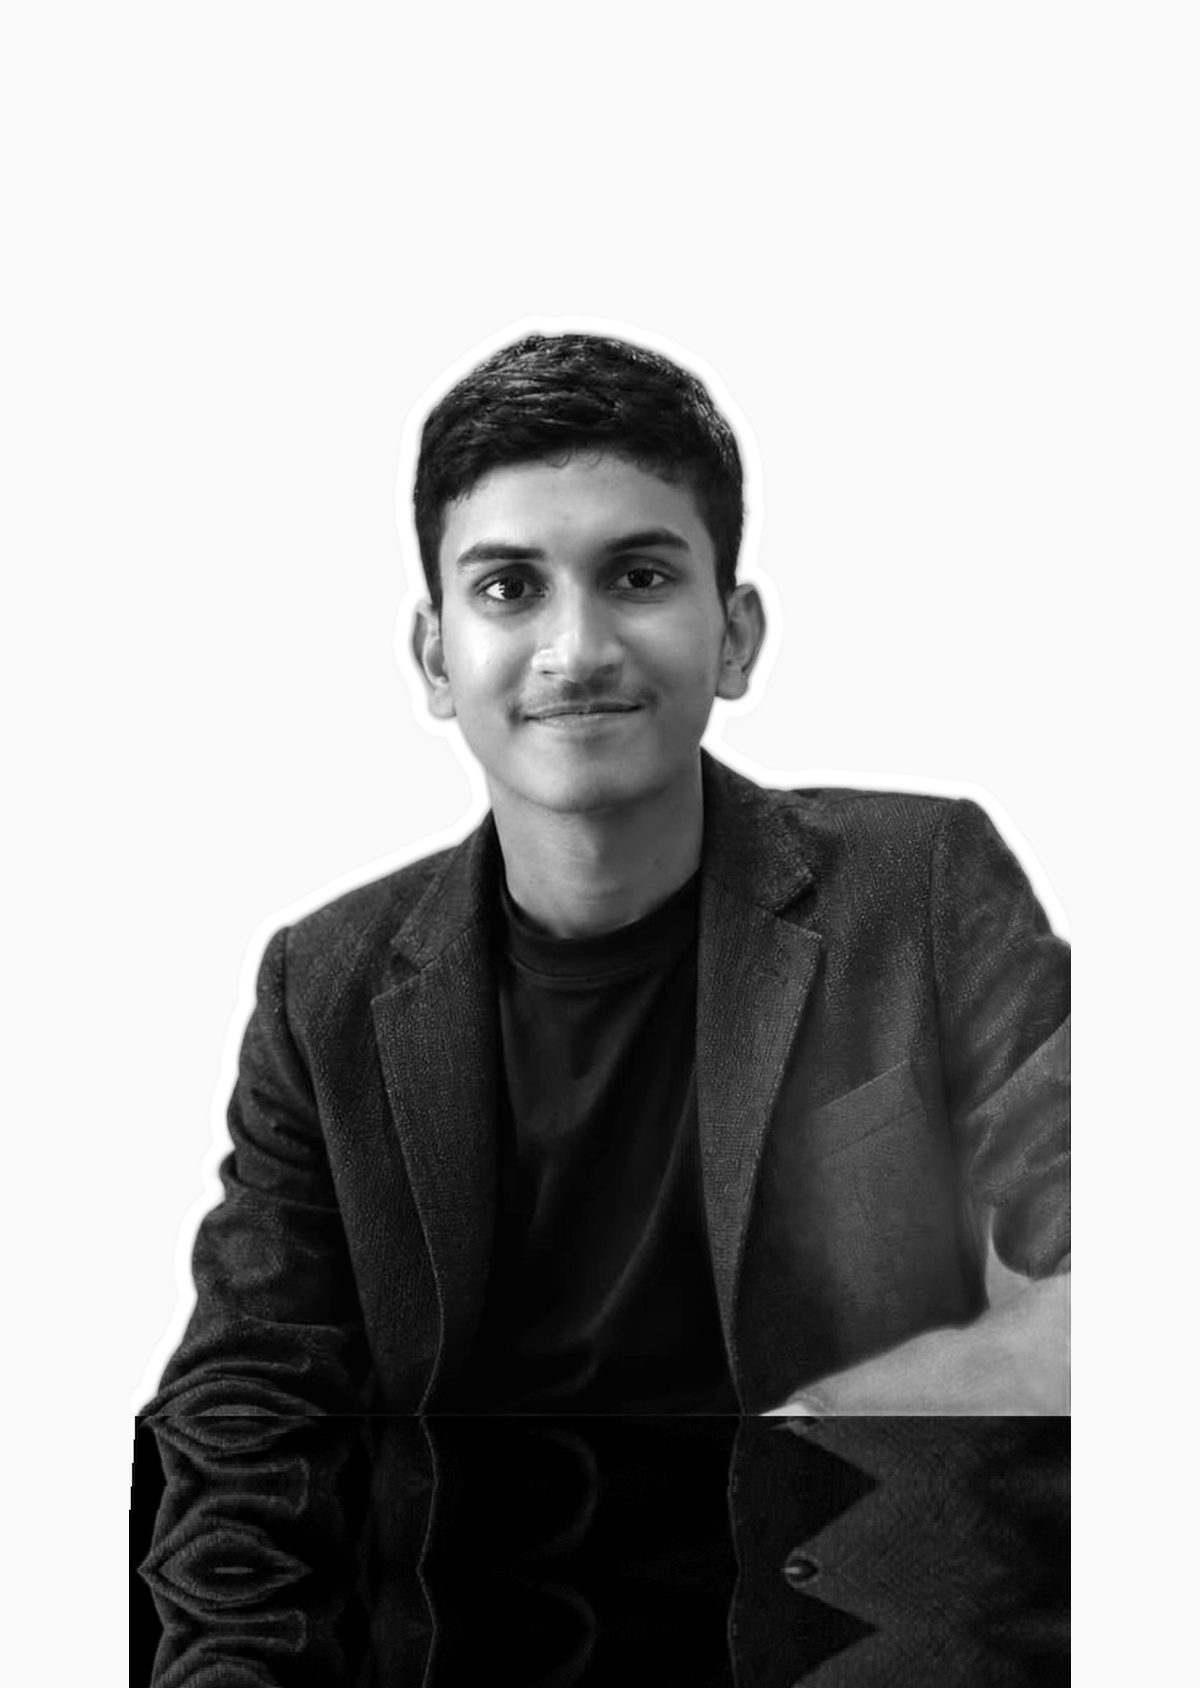
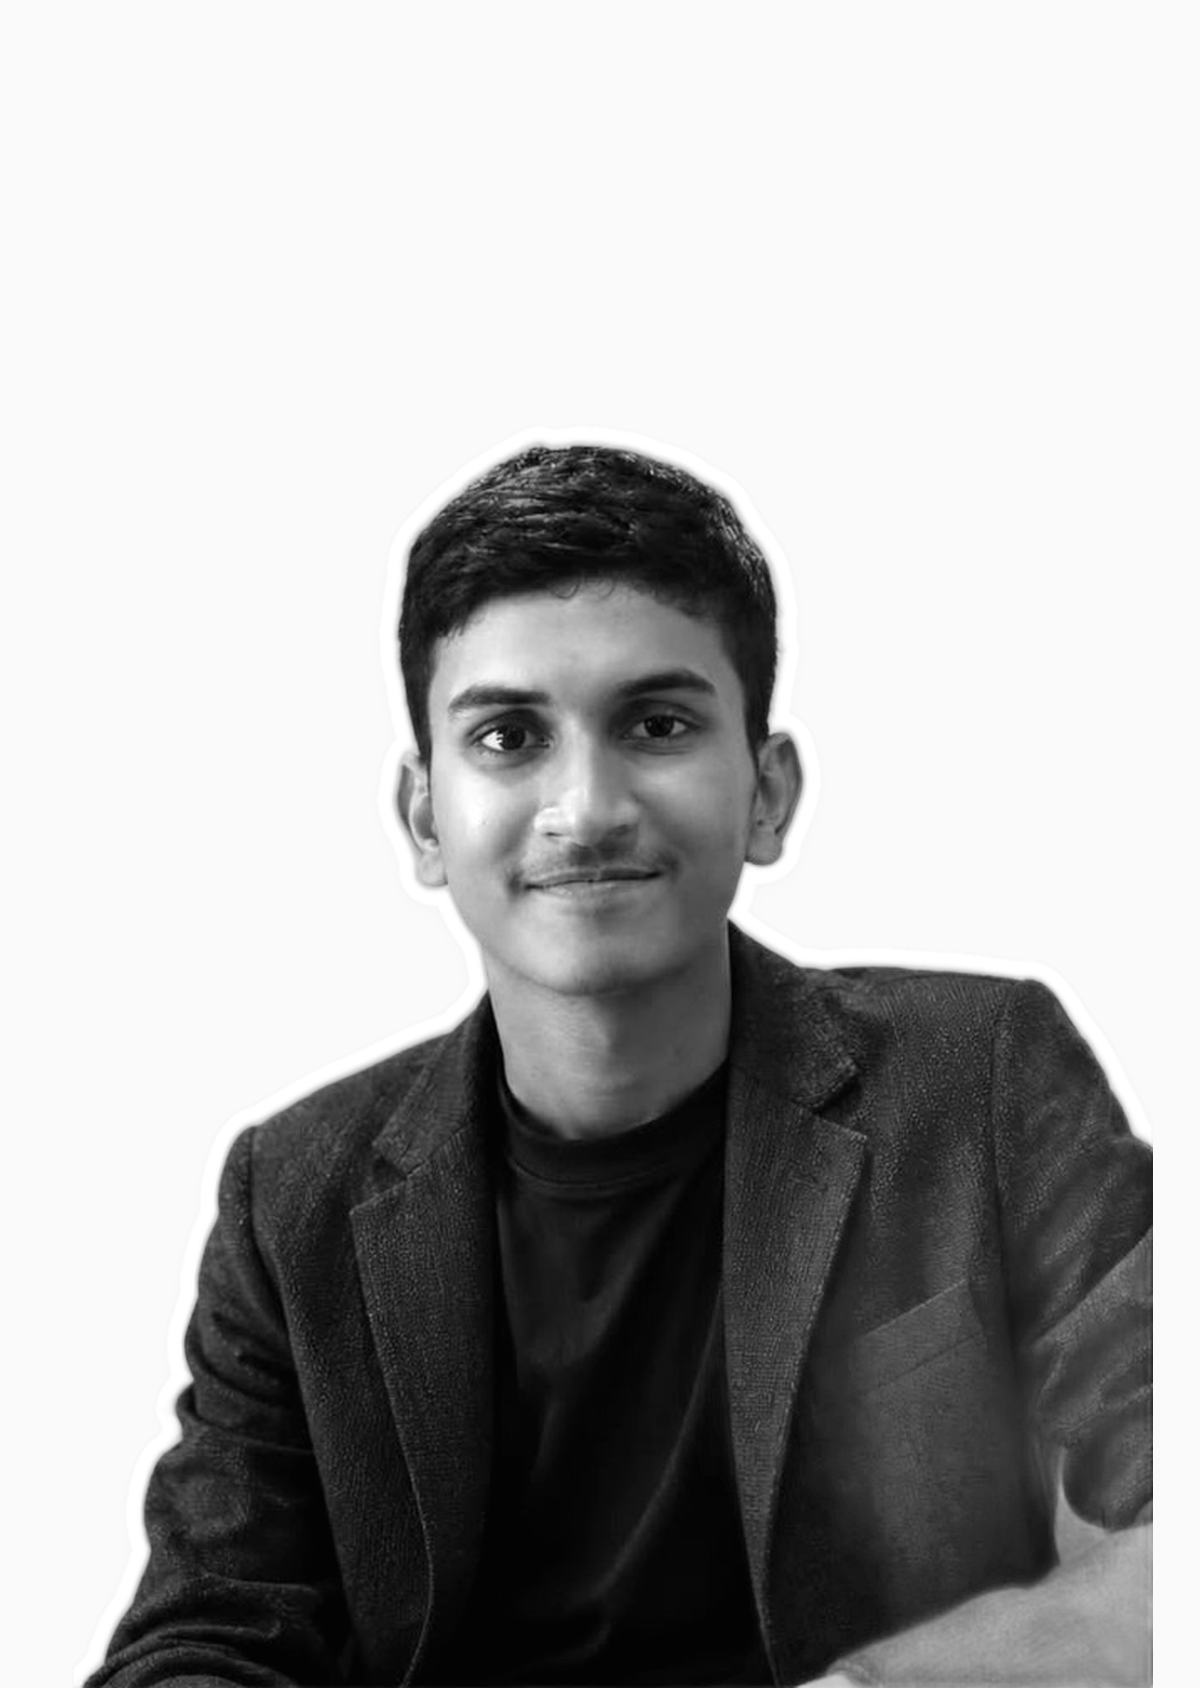
fix(team): update Luqman badge using original cutout anchored cleanly at bottom without AI elongation

Changed region(s): [[0.0617, 0.1848, 0.9867, 1.0], [0.4317, 0.8009, 0.4933, 0.8318], [0.4933, 0.9242, 0.5242, 0.955]]

diff --git a/lanyardStage.js b/lanyardStage.js
@@ -933,7 +933,7 @@ export function initUnifiedLanyardStage() {
       name: 'Luqman',
       role: 'Speaker',
       handle: '@luqman',
-      front: '/assets/badge_luqman_color.png?v=20261115_color',
+      front: '/assets/badge_luqman_color.png?v=20261115_color2',
       strap: '#0077ff',
       color: '#ffffff',
       metal: 'silver',
